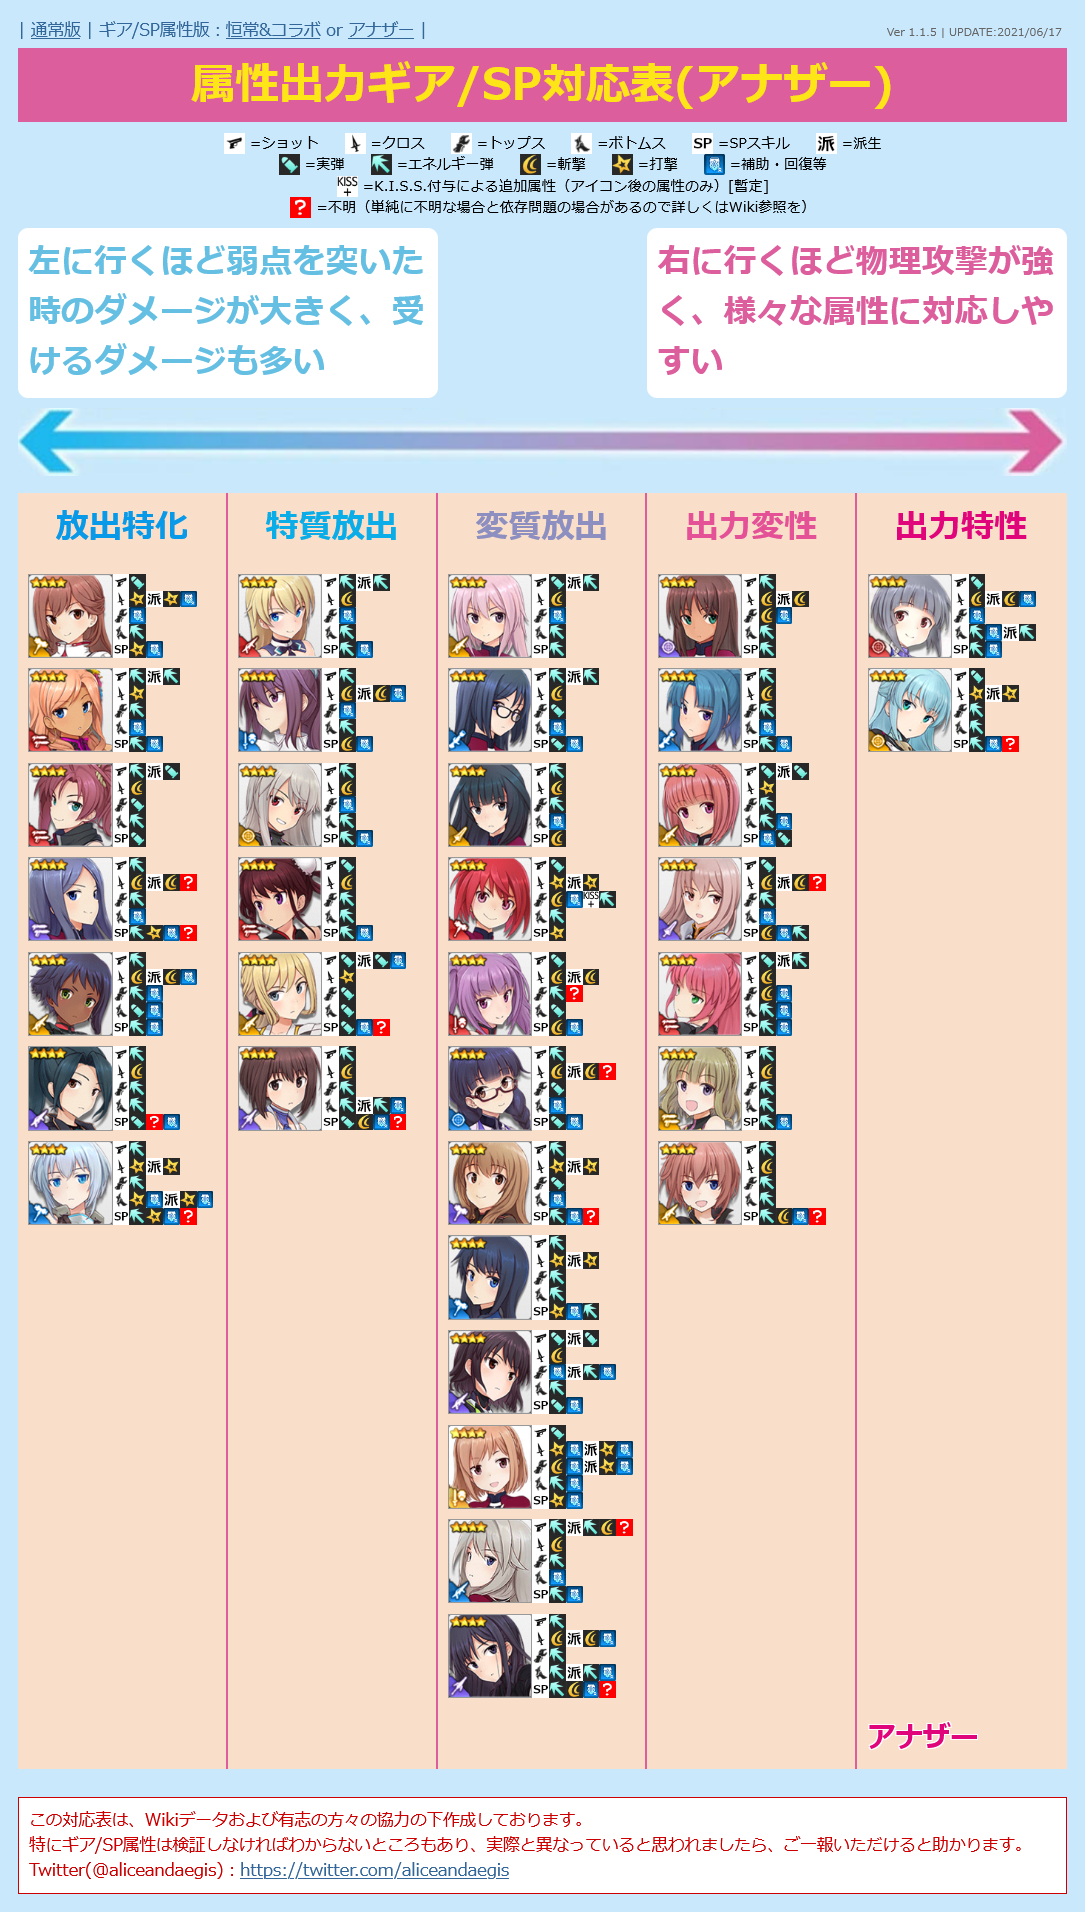
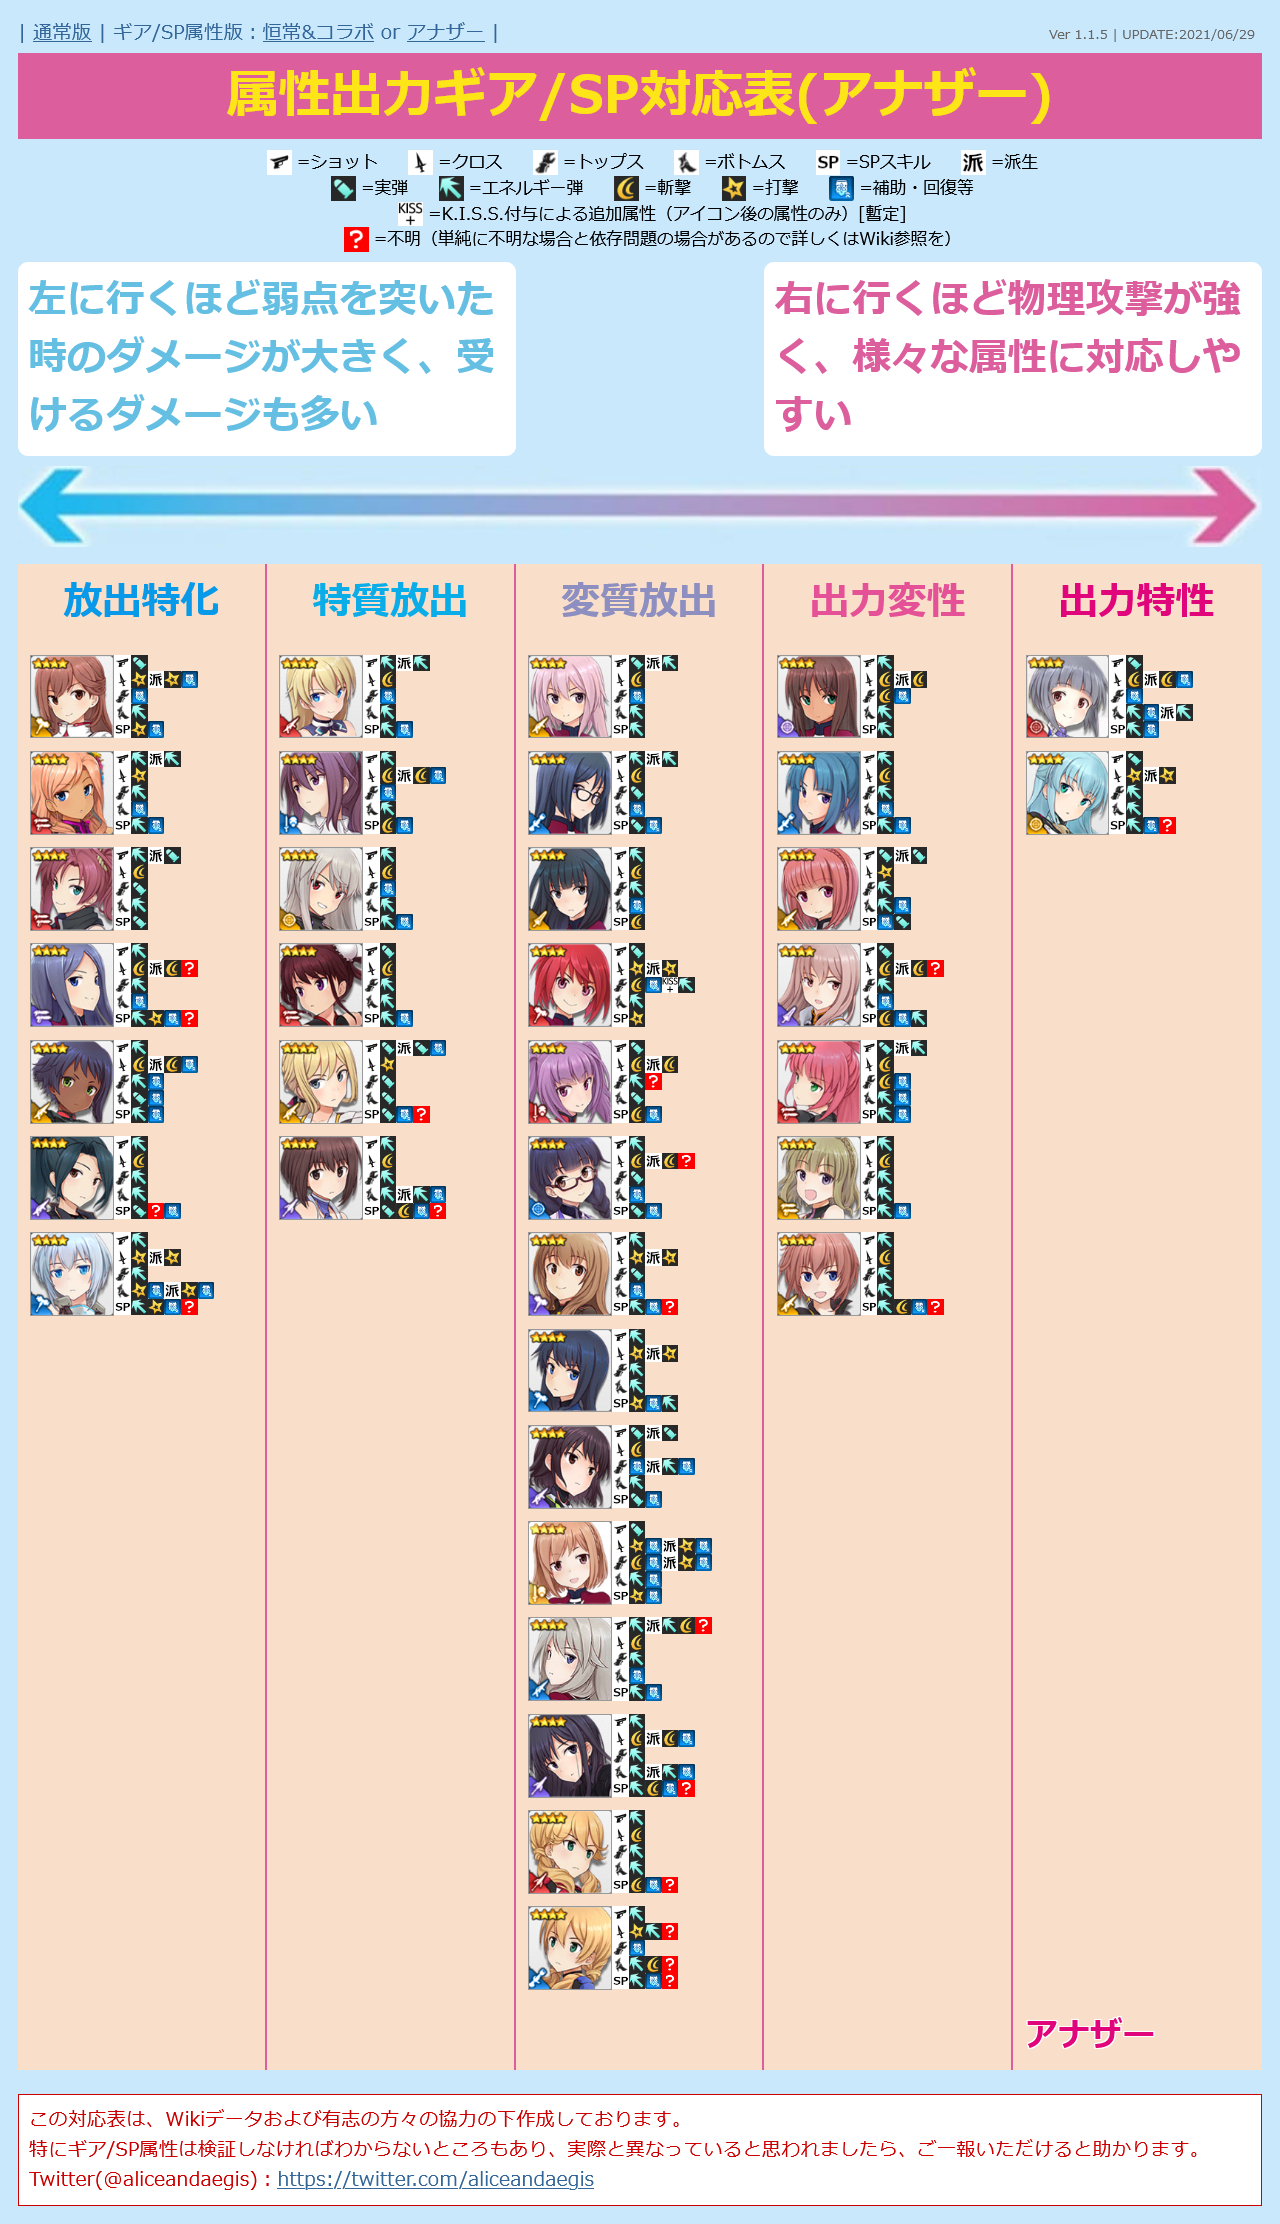
UPDATE charadata & css
・アナザー 琴村 朱音 / 炎天を追加
・アナザー 琴村 天音 / 玄天を追加
・琴村 天音のギア属性修正

Changed region(s): [[0.0, 0.0, 1.0, 1.0], [0.8212, 0.0, 0.9733, 0.0309], [0.9733, 0.0309, 1.0, 0.0617]]

diff --git a/alice.html b/alice.html
@@ -12,7 +12,7 @@
   <script>
 
 /* 更新情報 必要に応じて書き換えてください */
-  var version = "Ver 1.1.5 | UPDATE:2021/06/17";
+  var version = "Ver 1.1.5 | UPDATE:2021/06/29";
 
 
 /*
@@ -1033,18 +1033,46 @@
       "category": ""
     },
     {
+      "id": "37",
+      "type": "3",
+      "src": "another-akane.png",
+      "name": "琴村 朱音 / 炎天",
+      "equip1": "2",
+      "equip2": "3",
+      "equip3": "2",
+      "equip4": "2",
+      "sp": "35?",
+      "attr": "3",
+      "link": "https://wikiwiki.jp/alicegear/%E7%90%B4%E6%9D%91%E6%9C%B1%E9%9F%B3%E7%82%8E%E5%A4%A9",
+      "category": "10"
+    },
+    {
       "id": "38",
       "type": "1",
       "src": "normal-amane.png",
       "name": "琴村 天音",
       "equip1": "2",
-      "equip2": "4",
+      "equip2": "42?",
       "equip3": "5",
-      "equip4": "3",
+      "equip4": "23?",
       "sp": "3",
       "attr": "4",
       "link": "https://wikiwiki.jp/alicegear/%E7%90%B4%E6%9D%91%E5%A4%A9%E9%9F%B3",
       "category": ""
+    },
+    {
+      "id": "38",
+      "type": "3",
+      "src": "another-amane.png",
+      "name": "琴村 天音 / 玄天",
+      "equip1": "2",
+      "equip2": "42?",
+      "equip3": "5",
+      "equip4": "23?",
+      "sp": "25?",
+      "attr": "4",
+      "link": "https://wikiwiki.jp/alicegear/%E7%90%B4%E6%9D%91%E5%A4%A9%E9%9F%B3%E7%8E%84%E5%A4%A9",
+      "category": "10"
     },
     {
       "id": "39",

diff --git a/css/main.css b/css/main.css
@@ -275,6 +275,7 @@ body#equip ul#another li span img ,
 body#equip ul#another2 li span img {
   width:50%;
   width:45%;
+  width:37.8%;
   box-sizing:border-box;
   border:1px solid #999;
   float:left;
@@ -288,6 +289,7 @@ body#equip ul#another li span img.icons ,
 body#equip ul#another2 li span img.icons {
   width:10%;
   width:9%;
+  width:7.5%;
   border:0;
 }
 body#equip2 ul#normal li span img.br ,
